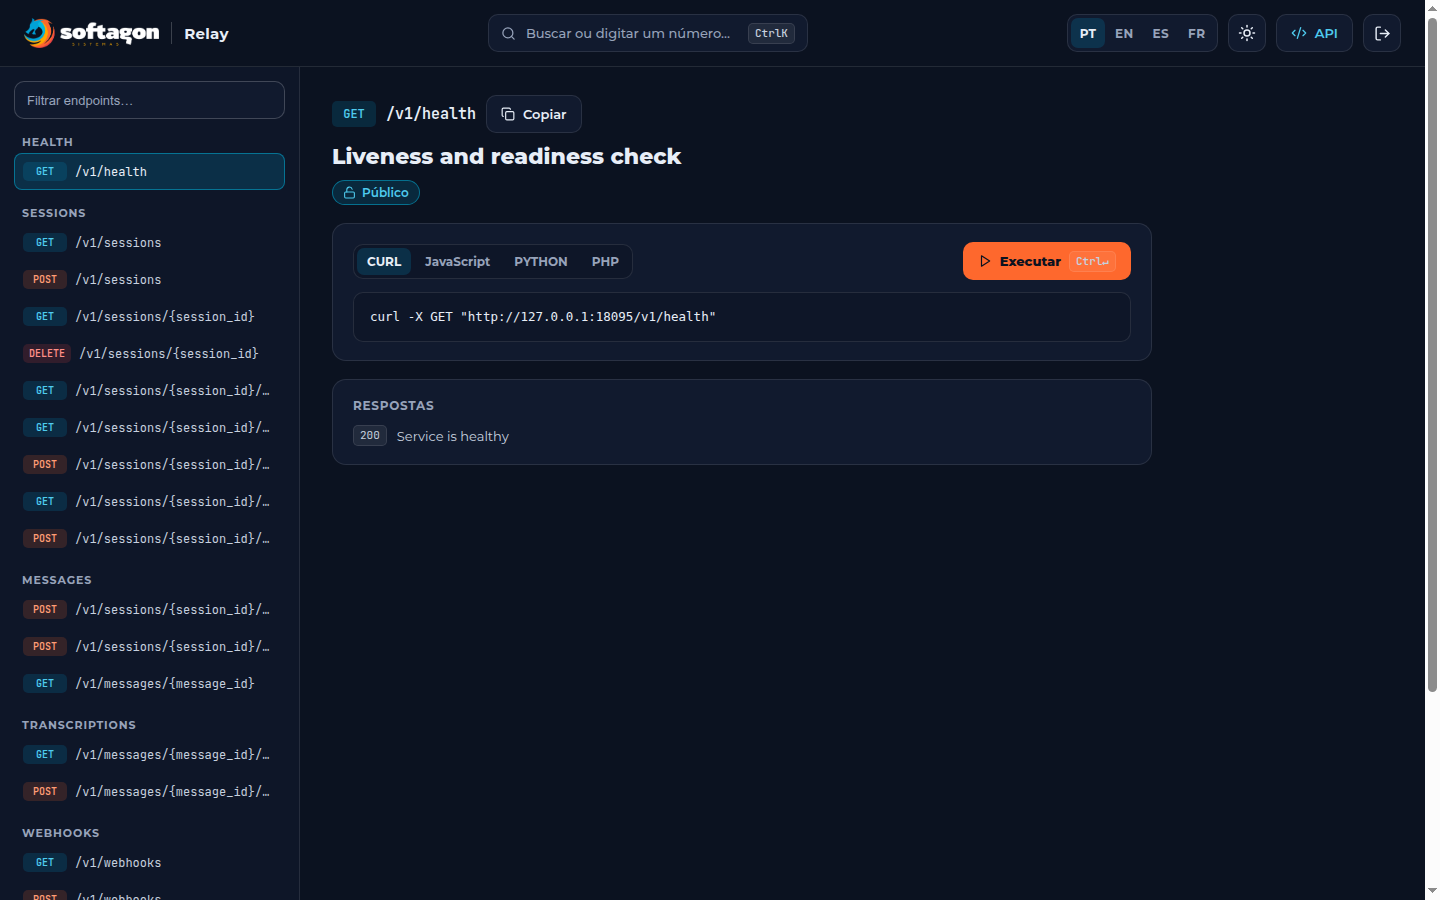
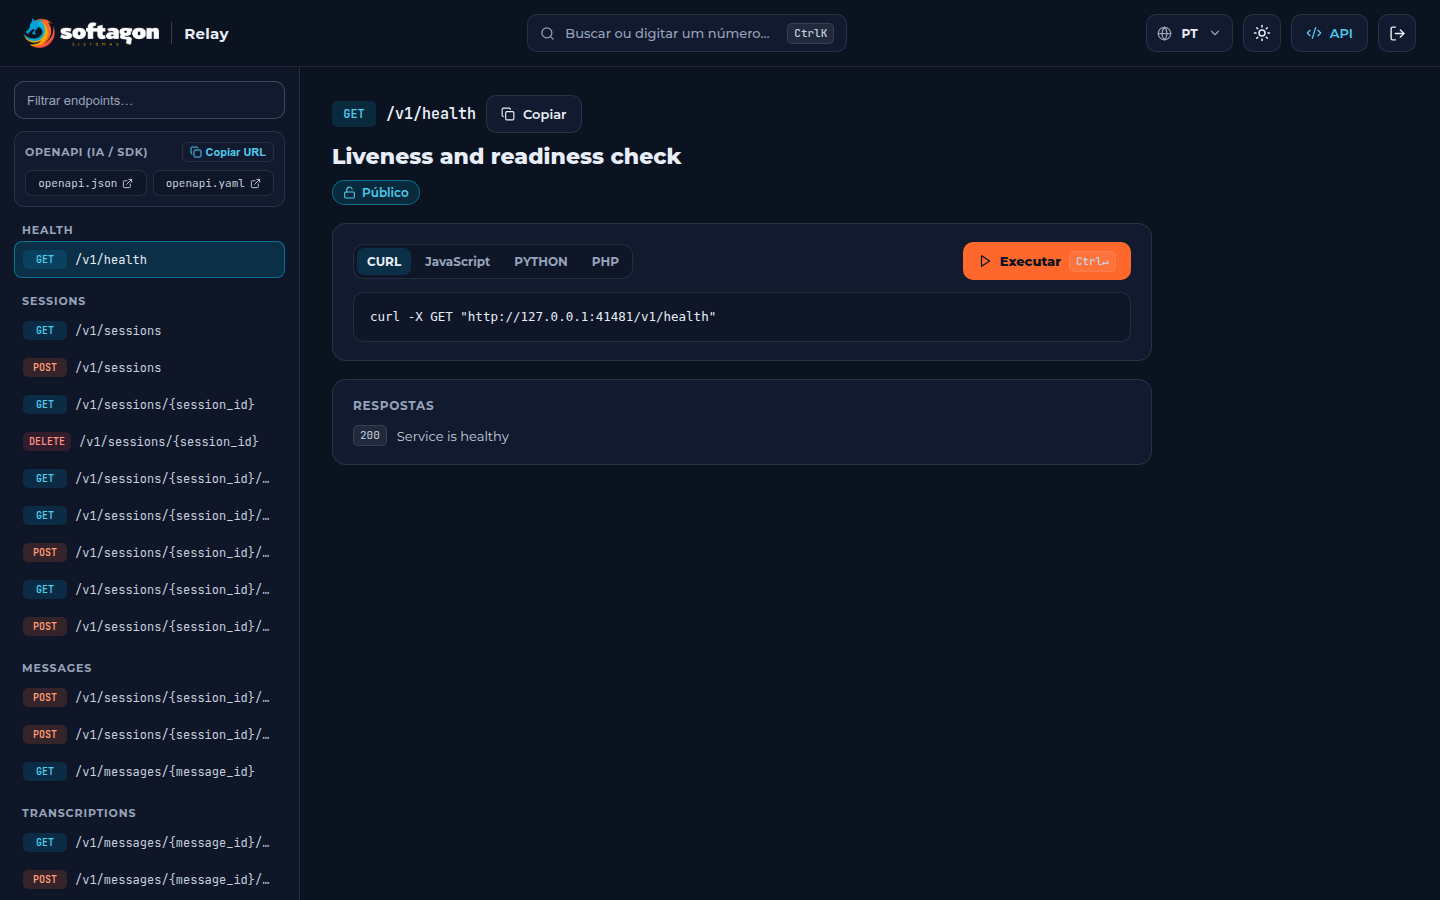
docs(images): regenerate demo.gif and localized screenshots for all 10 languages

diff --git a/console/src/components/LanguageSwitcher.vue b/console/src/components/LanguageSwitcher.vue
@@ -179,7 +179,7 @@ onBeforeUnmount(() => {
   right: 0;
   z-index: 50;
   min-width: 224px;
-  max-height: 360px;
+  max-height: 440px;
   overflow-y: auto;
   padding: 5px;
   border-radius: 12px;

diff --git a/docs/id/README.md b/docs/id/README.md
@@ -39,17 +39,17 @@ Konsol Web tertanam dirancang dengan tata letak keyboard-first **bergaya Raycast
 ### 2.1 Masuk (`/console/login`)
 Masukkan hanya kunci yang dikonfigurasi pada `RELAY_API_KEY` (tanpa nama pengguna atau email). Kunci dikirim sebagai token `Bearer` dan dapat disimpan secara opsional di browser Anda.
 
-![Layar Masuk Softagon Relay](../images/en/login.png)
+![Layar Masuk Softagon Relay](../images/id/login.png)
 
 ### 2.2 Beranda & Bilah Perintah (`/console`)
 Pantau kesehatan server secara langsung (`Sehat · N sesi`), buka daftar sesi dengan satu klik, atau ketik nomor WhatsApp (dengan pemformatan & validasi internasional otomatis) lalu tekan `↵` untuk mulai menautkan.
 
-![Beranda dan Bilah Perintah Softagon Relay](../images/en/home.png)
+![Beranda dan Bilah Perintah Softagon Relay](../images/id/home.png)
 
 ### 2.3 Hubungkan Nomor Baru via Kode QR (`/console/connect`)
 Setelah sesi dibuat, kode QR SVG langsung tampil dengan hitung mundur pembaruan otomatis (tekan `r` untuk membuat ulang segera). Di ponsel Anda, buka **WhatsApp → Perangkat tertaut → Tautkan perangkat** lalu pindai. Perangkat tertaut akan muncul sebagai **Softagon Relay**.
 
-![Layar Penautan Kode QR Softagon Relay](../images/en/connect.png)
+![Layar Penautan Kode QR Softagon Relay](../images/id/connect.png)
 
 ### 2.4 Manajemen Sesi & Pesan Uji (`/console/sessions`)
 Kelola seluruh akun WhatsApp yang terhubung dari satu tempat:
@@ -57,17 +57,17 @@ Kelola seluruh akun WhatsApp yang terhubung dari satu tempat:
 - Klik **Kirim pesan** untuk mengirim pesan uji langsung dengan validasi nomor internasional.
 - Buka **Aksi (`⌘K` / `Ctrl+K`)** untuk memulai ulang, menghubungkan kembali, keluar, atau **menghapus sesi yang terputus** (sesi aktif terlindungi dari penghapusan tidak sengaja).
 
-![Layar Manajemen Sesi Softagon Relay](../images/en/session.png)
+![Layar Manajemen Sesi Softagon Relay](../images/id/session.png)
 
 ### 2.5 Event & Webhook (`/console/events`)
 Daftarkan URL webhook untuk menerima event secara real-time (`message.received`, `message.sent`, `message.ack`, `session.status`, `message.transcription.completed`, `group.updated`). Relay otomatis membuat secret penandatanganan HMAC-SHA256 dan memudahkan pengaktifan atau penghapusan langganan.
 
-![Layar Event dan Webhook Softagon Relay](../images/en/events.png)
+![Layar Event dan Webhook Softagon Relay](../images/id/events.png)
 
 ### 2.6 Referensi API Interaktif (`/console/api`)
 Dihasilkan langsung dari `/openapi.yaml` (juga tersedia di **`/openapi.json`** untuk integrasi langsung dengan agen AI, n8n, Postman, dan SDK). Saring endpoint, salin potongan kode **cURL, JavaScript, Python, dan PHP**, lalu jalankan permintaan nyata ke instance Anda (`⌘↵` / `Ctrl+↵`).
 
-![Layar Referensi API Interaktif Softagon Relay](../images/en/api.png)
+![Layar Referensi API Interaktif Softagon Relay](../images/id/api.png)
 
 ### Pintasan Keyboard
 | Pintasan | Aksi |

diff --git a/docs/ms/README.md b/docs/ms/README.md
@@ -39,17 +39,17 @@ Konsol Web terbenam direka dalam susun atur keutamaan papan kekunci **berinspira
 ### 2.1 Log Masuk (`/console/login`)
 Masukkan hanya kunci yang dikonfigurasikan dalam `RELAY_API_KEY` (tiada nama pengguna atau e-mel diperlukan). Ia dihantar sebagai token `Bearer` dan boleh diingati secara pilihan dalam pelayar anda.
 
-![Skrin Log Masuk Softagon Relay](../images/en/login.png)
+![Skrin Log Masuk Softagon Relay](../images/ms/login.png)
 
 ### 2.2 Utama & Bar Arahan (`/console`)
 Semak kesihatan pelayan secara langsung (`Sihat · N sesi`), lompat ke senarai sesi dengan satu klik, atau taip sebarang nombor WhatsApp dan tekan `↵` untuk memulakan pemautan.
 
-![Utama dan Bar Arahan Softagon Relay](../images/en/home.png)
+![Utama dan Bar Arahan Softagon Relay](../images/ms/home.png)
 
 ### 2.3 Sambung Nombor Baharu melalui Kod QR (`/console/connect`)
 Setelah sesi dicipta, kod QR SVG langsung muncul dengan kira detik muat semula automatik (tekan `r` untuk menjana semula serta-merta). Pada telefon anda, buka **WhatsApp → Peranti terpaut → Pautkan peranti** dan imbas. Peranti terpaut akan dipaparkan sebagai **Softagon Relay**.
 
-![Skrin Pemautan Kod QR Softagon Relay](../images/en/connect.png)
+![Skrin Pemautan Kod QR Softagon Relay](../images/ms/connect.png)
 
 ### 2.4 Pengurusan Sesi & Mesej Ujian (`/console/sessions`)
 Urus semua akaun WhatsApp yang disambungkan dari satu tempat:
@@ -57,17 +57,17 @@ Urus semua akaun WhatsApp yang disambungkan dari satu tempat:
 - Klik **Hantar mesej** untuk menghantar mesej ujian langsung dengan pengesahan nombor antarabangsa.
 - Buka **Tindakan (`⌘K` / `Ctrl+K`)** untuk memulakan semula, menyambung semula, log keluar, atau **memadam sesi yang terputus**.
 
-![Skrin Pengurusan Sesi Softagon Relay](../images/en/session.png)
+![Skrin Pengurusan Sesi Softagon Relay](../images/ms/session.png)
 
 ### 2.5 Acara & Webhook (`/console/events`)
 Daftar URL webhook untuk menerima acara masa nyata (`message.received`, `message.sent`, `message.ack`, `session.status`, `message.transcription.completed`, `group.updated`). Relay menjana rahsia tandatangan HMAC-SHA256 secara automatik.
 
-![Skrin Acara dan Webhook Softagon Relay](../images/en/events.png)
+![Skrin Acara dan Webhook Softagon Relay](../images/ms/events.png)
 
 ### 2.6 Rujukan API Interaktif (`/console/api`)
 Dijana secara langsung daripada `/openapi.yaml` (juga tersedia di **`/openapi.json`** untuk ejen AI, n8n, Postman, dan SDK). Tapis titik akhir, salin petikan kod **cURL, JavaScript, Python, dan PHP**, dan jalankan permintaan sebenar (`⌘↵` / `Ctrl+↵`).
 
-![Skrin Rujukan API Interaktif Softagon Relay](../images/en/api.png)
+![Skrin Rujukan API Interaktif Softagon Relay](../images/ms/api.png)
 
 ### Pintasan Papan Kekunci
 | Pintasan | Tindakan |

diff --git a/docs/su/README.md b/docs/su/README.md
@@ -39,17 +39,17 @@ Konsol Wéb dirancang dina tata letak keyboard-first **gaya Raycast**, ngarojong
 ### 2.1 Asup (`/console/login`)
 Lebetkeun ukur konci anu disetél dina `RELAY_API_KEY` (teu peryogi ngaran pamaké atawa surélék). Konci dikirim salaku token `Bearer` sareng tiasa disimpen dina panyungsi anjeun.
 
-![Layar Asup Softagon Relay](../images/en/login.png)
+![Layar Asup Softagon Relay](../images/su/login.png)
 
 ### 2.2 Tepas & Bar Paréntah (`/console`)
 Pariksa kaséhatan sérver langsung (`Séhat · N sési`), buka daptar sési ku sakali klik, atawa ketik nomer WhatsApp tuluy pencét `↵` pikeun ngamimitian panautan.
 
-![Tepas sareng Bar Paréntah Softagon Relay](../images/en/home.png)
+![Tepas sareng Bar Paréntah Softagon Relay](../images/su/home.png)
 
 ### 2.3 Sambungkeun Nomer Anyar via Kode QR (`/console/connect`)
 Saatos sési didamel, kode QR SVG langsung némbongan kalayan itungan mundur otomatis (pencét `r` pikeun ngadamel deui langsung). Dina hapé anjeun, buka **WhatsApp → Alat nu ditautkeun → Tautkeun alat** tuluy seken. Alat bakal muncul salaku **Softagon Relay**.
 
-![Layar Panautan Kode QR Softagon Relay](../images/en/connect.png)
+![Layar Panautan Kode QR Softagon Relay](../images/su/connect.png)
 
 ### 2.4 Manajemén Sési & Pesen Uji (`/console/sessions`)
 Atur sadaya akun WhatsApp anu nyambung ti hiji tempat:
@@ -57,17 +57,17 @@ Atur sadaya akun WhatsApp anu nyambung ti hiji tempat:
 - Klik **Kirim pesen** pikeun ngirim pesen uji langsung kalayan validasi nomer internasional.
 - Buka **Aksi (`⌘K` / `Ctrl+K`)** pikeun ngamimitian deui, nyambungkeun deui, kaluar, atawa **ngahapus sési anu pegat**.
 
-![Layar Manajemén Sési Softagon Relay](../images/en/session.png)
+![Layar Manajemén Sési Softagon Relay](../images/su/session.png)
 
 ### 2.5 Kajadian & Webhook (`/console/events`)
 Daftarkeun URL webhook pikeun nampi kajadian sacara real-time (`message.received`, `message.sent`, `message.ack`, `session.status`, `message.transcription.completed`, `group.updated`). Relay otomatis ngadamel secret HMAC-SHA256 pikeun tanda tangan.
 
-![Layar Kajadian sareng Webhook Softagon Relay](../images/en/events.png)
+![Layar Kajadian sareng Webhook Softagon Relay](../images/su/events.png)
 
 ### 2.6 Référénsi API Interaktif (`/console/api`)
 Dijieun langsung tina `/openapi.yaml` (ogé sayogi di **`/openapi.json`** pikeun agén AI, n8n, Postman, sareng SDK). Saring endpoint, salin conto **cURL, JavaScript, Python, sareng PHP**, tuluy jalankeun paménta langsung (`⌘↵` / `Ctrl+↵`).
 
-![Layar Référénsi API Interaktif Softagon Relay](../images/en/api.png)
+![Layar Référénsi API Interaktif Softagon Relay](../images/su/api.png)
 
 ### Pintasan Keyboard
 | Pintasan | Aksi |

diff --git a/docs/jv/README.md b/docs/jv/README.md
@@ -39,17 +39,17 @@ Konsol Wèb dirancang nganggo tata letak keyboard-first **gaya Raycast**, ndhuku
 ### 2.1 Mlebu (`/console/login`)
 Lebokaké mung kunci sing diatur ing `RELAY_API_KEY` (ora perlu jeneng panganggo utawa email). Kunci dikirim minangka token `Bearer` lan bisa disimpen ing browser sampeyan.
 
-![Layar Mlebu Softagon Relay](../images/en/login.png)
+![Layar Mlebu Softagon Relay](../images/jv/login.png)
 
 ### 2.2 Ngarep & Bar Préntah (`/console`)
 Priksa kaséhatan sèrver langsung (`Séhat · N sèsi`), bukak dhaptar sèsi nganggo sak klik, utawa ketik nomer WhatsApp banjur pencèt `↵` kanggo miwiti nggandhèngaké.
 
-![Ngarep lan Bar Préntah Softagon Relay](../images/en/home.png)
+![Ngarep lan Bar Préntah Softagon Relay](../images/jv/home.png)
 
 ### 2.3 Sambungaké Nomer Anyar liwat Kode QR (`/console/connect`)
 Sawisé sèsi digawé, kode QR SVG langsung katon nganggo itungan mundur otomatis (pencèt `r` kanggo nggawé manèh langsung). Ing HP sampeyan, bukak **WhatsApp → Piranti kagandhèng → Gandhèngaké piranti** banjur pindai. Piranti bakal katon minangka **Softagon Relay**.
 
-![Layar Gandhèng Kode QR Softagon Relay](../images/en/connect.png)
+![Layar Gandhèng Kode QR Softagon Relay](../images/jv/connect.png)
 
 ### 2.4 Manajemèn Sèsi & Pesen Uji (`/console/sessions`)
 Atur kabèh akun WhatsApp sing nyambung saka siji panggonan:
@@ -57,17 +57,17 @@ Atur kabèh akun WhatsApp sing nyambung saka siji panggonan:
 - Klik **Kirim pesen** kanggo ngirim pesen uji langsung kanthi validasi nomer internasional.
 - Bukak **Aksi (`⌘K` / `Ctrl+K`)** kanggo miwiti manèh, nyambung manèh, metu, utawa **mbusak sèsi sing pedhot**.
 
-![Layar Manajemèn Sèsi Softagon Relay](../images/en/session.png)
+![Layar Manajemèn Sèsi Softagon Relay](../images/jv/session.png)
 
 ### 2.5 Kedadéan & Webhook (`/console/events`)
 Daftaraké URL webhook kanggo nampa kedadéan sacara real-time (`message.received`, `message.sent`, `message.ack`, `session.status`, `message.transcription.completed`, `group.updated`). Relay otomatis nggawé secret HMAC-SHA256.
 
-![Layar Kedadéan lan Webhook Softagon Relay](../images/en/events.png)
+![Layar Kedadéan lan Webhook Softagon Relay](../images/jv/events.png)
 
 ### 2.6 Réferènsi API Interaktif (`/console/api`)
 Digawé langsung saka `/openapi.yaml` (uga ana ing **`/openapi.json`** kanggo agèn AI, n8n, Postman, lan SDK). Saring endpoint, salin conto **cURL, JavaScript, Python, lan PHP**, banjur lakokaké panjalukan langsung (`⌘↵` / `Ctrl+↵`).
 
-![Layar Réferènsi API Interaktif Softagon Relay](../images/en/api.png)
+![Layar Réferènsi API Interaktif Softagon Relay](../images/jv/api.png)
 
 ### Pintasan Keyboard
 | Pintasan | Aksi |

diff --git a/docs/bew/README.md b/docs/bew/README.md
@@ -39,17 +39,17 @@ Konsol Web bawaannye dibikin pake tampilan keyboard-first **gaya Raycast**, bisa
 ### 2.1 Masuk (`/console/login`)
 Masukin kunci nyang udeh diatur di `RELAY_API_KEY` aje (kagak perlu username atawa email). Kuncinye dikirim jadi token `Bearer` ame bisa disimpen di browser ente.
 
-![Layar Masuk Softagon Relay](../images/en/login.png)
+![Layar Masuk Softagon Relay](../images/bew/login.png)
 
 ### 2.2 Beranda & Bilah Perintah (`/console`)
 Cek kesehatan server langsung (`Sehat · N sesi`), buka daftar sesi sekali klik, atawa ketik nomor WhatsApp terus pencet `↵` biar langsung mulai nyambungin.
 
-![Beranda dan Bilah Perintah Softagon Relay](../images/en/home.png)
+![Beranda dan Bilah Perintah Softagon Relay](../images/bew/home.png)
 
 ### 2.3 Sambungin Nomor Baru lewat Kode QR (`/console/connect`)
 Begitu sesi dibikin, kode QR SVG langsung nongol pake itungan mundur pembaruan otomatis (pencet `r` buat bikin baru langsung). Di hape ente, buka **WhatsApp → Perangkat tertaut → Tautkan perangkat** terus pindai. Perangkatnye bakal nongol pake nama **Softagon Relay**.
 
-![Layar Penautan Kode QR Softagon Relay](../images/en/connect.png)
+![Layar Penautan Kode QR Softagon Relay](../images/bew/connect.png)
 
 ### 2.4 Kelola Sesi & Kirim Pesan Tes (`/console/sessions`)
 Urus semua akun WhatsApp nyang nyambung di satu tempat:
@@ -57,17 +57,17 @@ Urus semua akun WhatsApp nyang nyambung di satu tempat:
 - Klik **Kirim pesan** buat kirim pesan tes langsung pake validasi nomor internasional.
 - Buka **Aksi (`⌘K` / `Ctrl+K`)** buat ngulang sesi, sambungin ulang, keluar, atawa **hapus sesi nyang udeh putus**.
 
-![Layar Manajemen Sesi Softagon Relay](../images/en/session.png)
+![Layar Manajemen Sesi Softagon Relay](../images/bew/session.png)
 
 ### 2.5 Event & Webhook (`/console/events`)
 Daftarin URL webhook biar dapet event secara langsung (`message.received`, `message.sent`, `message.ack`, `session.status`, `message.transcription.completed`, `group.updated`). Relay otomatis bikin secret HMAC-SHA256 ame gampang buat matiin atawa hapus langganan.
 
-![Layar Event dan Webhook Softagon Relay](../images/en/events.png)
+![Layar Event dan Webhook Softagon Relay](../images/bew/events.png)
 
 ### 2.6 Referensi API Interaktif (`/console/api`)
 Dibikin langsung dari `/openapi.yaml` (ade juga di **`/openapi.json`** buat nyambung ke agen AI, n8n, Postman, ame SDK). Saring endpoint, salin contoh **cURL, JavaScript, Python, ame PHP**, terus jalanin langsung (`⌘↵` / `Ctrl+↵`).
 
-![Layar Referensi API Interaktif Softagon Relay](../images/en/api.png)
+![Layar Referensi API Interaktif Softagon Relay](../images/bew/api.png)
 
 ### Pintasan Keyboard
 | Pintasan | Aksi |

diff --git a/docs/bbc/README.md b/docs/bbc/README.md
@@ -39,17 +39,17 @@ Konsol Web dibahen marhite tata letak keyboard-first **gaya Raycast**, boi mangg
 ### 2.1 Masuk (`/console/login`)
 Pamasuk holan kunci na diatur di `RELAY_API_KEY` (ndang porlu goar pangke manang email). Kunci ditongos songon token `Bearer` jala boi disimpan di browsermu.
 
-![Layar Masuk Softagon Relay](../images/en/login.png)
+![Layar Masuk Softagon Relay](../images/bbc/login.png)
 
 ### 2.2 Beranda & Bilah Parenta (`/console`)
 Pariksa hahipason server langsung (`Hipas · N sesi`), buka daftar sesi marhite sada klik, manang ketik nomor WhatsApp dung i tekan `↵` laho mamulai pahubungkon.
 
-![Beranda dohot Bilah Parenta Softagon Relay](../images/en/home.png)
+![Beranda dohot Bilah Parenta Softagon Relay](../images/bbc/home.png)
 
 ### 2.3 Pahubung Nomor na Imbaru marhite Kode QR (`/console/connect`)
 Dung sesi dibahen, kode QR SVG pintor tarida rap dohot hitungan mundur otomatis (tekan `r` laho mambahen muse). Di HP-mu, buka **WhatsApp → Perangkat tertaut → Tautkan perangkat** dung i scan. Perangkat tarida gabe **Softagon Relay**.
 
-![Layar Tautan Kode QR Softagon Relay](../images/en/connect.png)
+![Layar Tautan Kode QR Softagon Relay](../images/bbc/connect.png)
 
 ### 2.4 Manajemen Sesi & Tona Uji (`/console/sessions`)
 Atur sasude akun WhatsApp na terhubung di sada inganan:
@@ -57,17 +57,17 @@ Atur sasude akun WhatsApp na terhubung di sada inganan:
 - Klik **Tongos tona** laho manongos tona uji langsung dohot validasi nomor internasional.
 - Buka **Aksi (`⌘K` / `Ctrl+K`)** laho mamulai muse, pahubungkon muse, kaluar, manang **manesa sesi na putus**.
 
-![Layar Manajemen Sesi Softagon Relay](../images/en/session.png)
+![Layar Manajemen Sesi Softagon Relay](../images/bbc/session.png)
 
 ### 2.5 Event & Webhook (`/console/events`)
 Daftarkon URL webhook laho manjalo event sacara real-time (`message.received`, `message.sent`, `message.ack`, `session.status`, `message.transcription.completed`, `group.updated`). Relay otomatis mambahen secret HMAC-SHA256.
 
-![Layar Event dohot Webhook Softagon Relay](../images/en/events.png)
+![Layar Event dohot Webhook Softagon Relay](../images/bbc/events.png)
 
 ### 2.6 Referensi API Interaktif (`/console/api`)
 Dibahen langsung sian `/openapi.yaml` (adong do muse di **`/openapi.json`** tu agen AI, n8n, Postman, dohot SDK). Saring endpoint, salin umpama **cURL, JavaScript, Python, dohot PHP**, dung i dalanhon langsung (`⌘↵` / `Ctrl+↵`).
 
-![Layar Referensi API Interaktif Softagon Relay](../images/en/api.png)
+![Layar Referensi API Interaktif Softagon Relay](../images/bbc/api.png)
 
 ### Pintasan Keyboard
 | Pintasan | Aksi |
